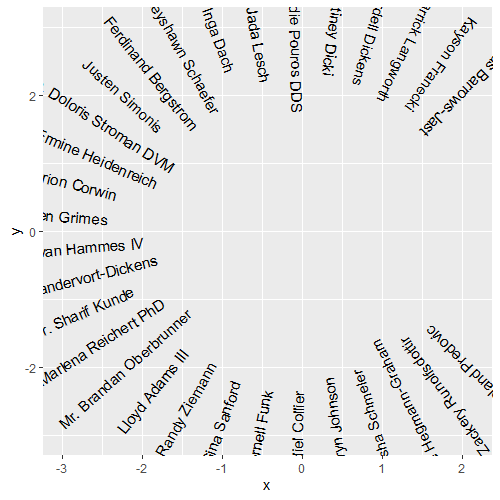
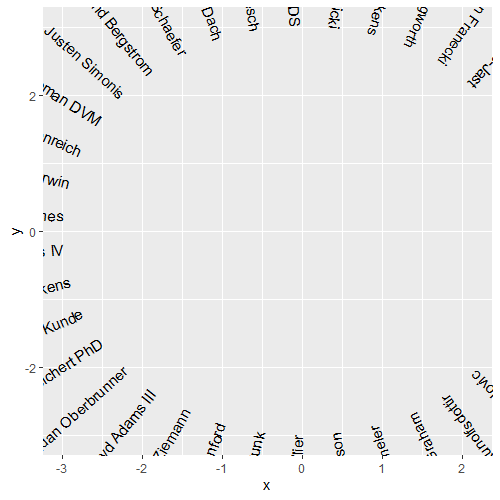
add examples

diff --git a/README.md b/README.md
@@ -24,9 +24,72 @@ With styling:
 
 ```r
 ggplot(data = plot_df) +
-  geom_textcircle(mapping = aes(label = name), hjust = 1, size = 3) +
+  geom_textcircle(mapping = aes(label = name), size = 3) +
   scale_x_continuous(limits = c(-6, 5)) +
   scale_y_continuous(limits = c(-6, 6)) +
+  coord_fixed() +
+  theme_void()
+```
+
+![](man/figures/example2.png)
+
+A more complex example (uses {ggtext} and {dplyr}):
+
+```r
+# read in #TidyTuesday leap Day data
+tuesdata <- tidytuesdayR::tt_load("2024-02-27")
+births <- tuesdata$births
+deaths <- tuesdata$deaths
+
+# Plot
+ggplot() +
+  geom_textcircle(
+    data = dplyr::filter(births, year_birth >= 1900),
+    mapping = aes(label = person),
+    colour = "#35978f",
+    r = 6,
+    size = 2.5
+  ) +
+  geom_textcircle(
+    data = dplyr::filter(deaths, year_death >= 1900),
+    mapping = aes(label = person),
+    colour = "#bf812d",
+    r = 3,
+    size = 2.5
+  ) +
+  # annotate with {ggtext}
+  ggtext::geom_textbox(
+    data = data.frame(x = 0, y = 1.0, label = "Births and deaths on February 29<sup>th</sup>"),
+    mapping = aes(x = x, y = y, label = label),
+    hjust = 0,
+    fontface = "bold",
+    lineheight = 0.5,
+    fill = "transparent",
+    box.colour = "transparent",
+    size = 5,
+    minwidth = 0.5
+  ) +
+  ggtext::geom_textbox(
+    data = data.frame(
+      x = 0, y = -0.5,
+      label = glue::glue("February 29 is a leap day (or 'leap year day'), an
+                         intercalary date added periodically to create leap
+                         years in the Julian and Gregorian calendars. Wikpedia
+                         lists {nrow(plot_births)} <span style='color: #35978f;'>
+                         births</span> and {nrow(plot_deaths)}
+                         <span style='color: #bf812d;'>deaths</span> on a leap
+                         day since 1900.")
+    ),
+    mapping = aes(x = x, y = y, label = label),
+    hjust = 0,
+    lineheight = 0.5,
+    fill = "transparent",
+    box.colour = "transparent",
+    size = 4,
+    minwidth = 0.45
+  ) +
+  scale_x_continuous(limits = c(-8, 8)) +
+  scale_y_continuous(limits = c(-8, 8)) +
   coord_fixed() +
   theme_void()
 ```
